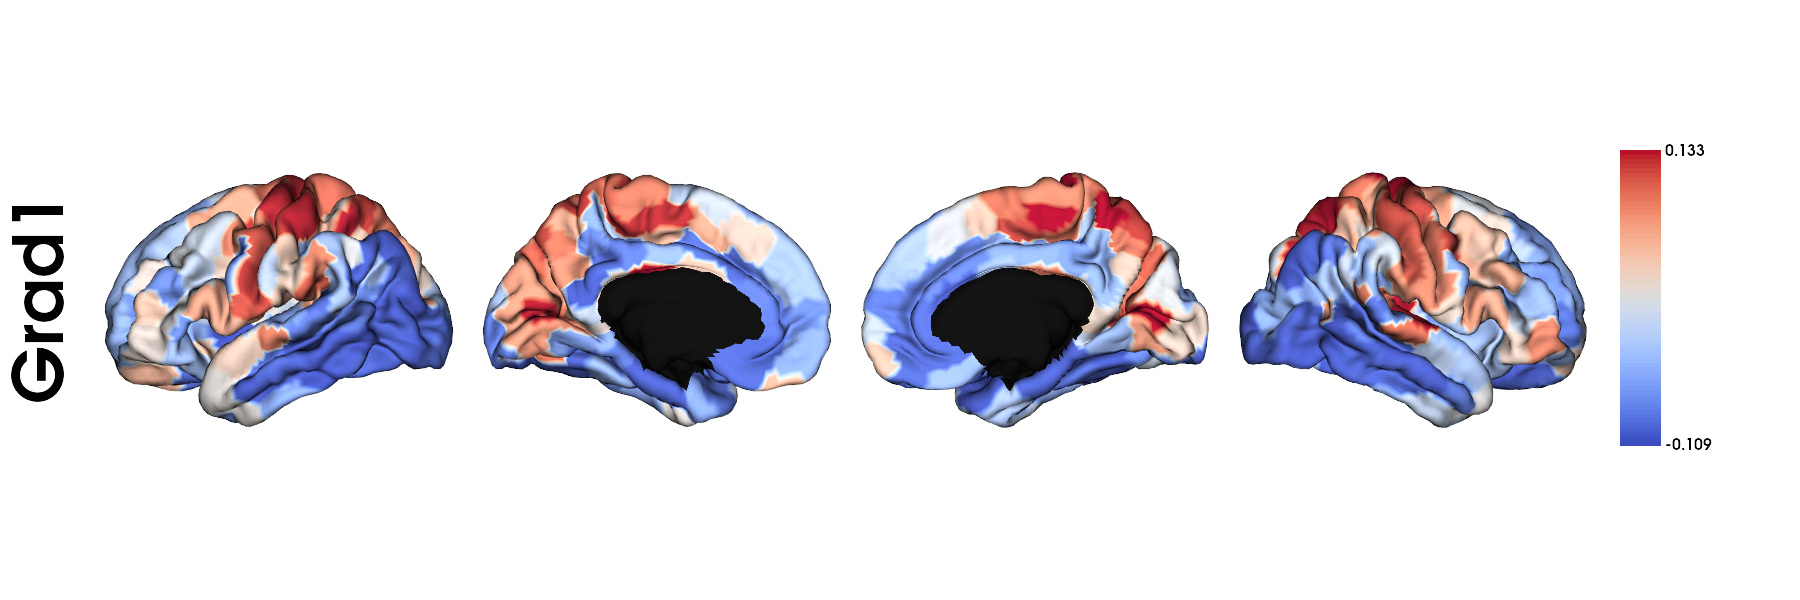
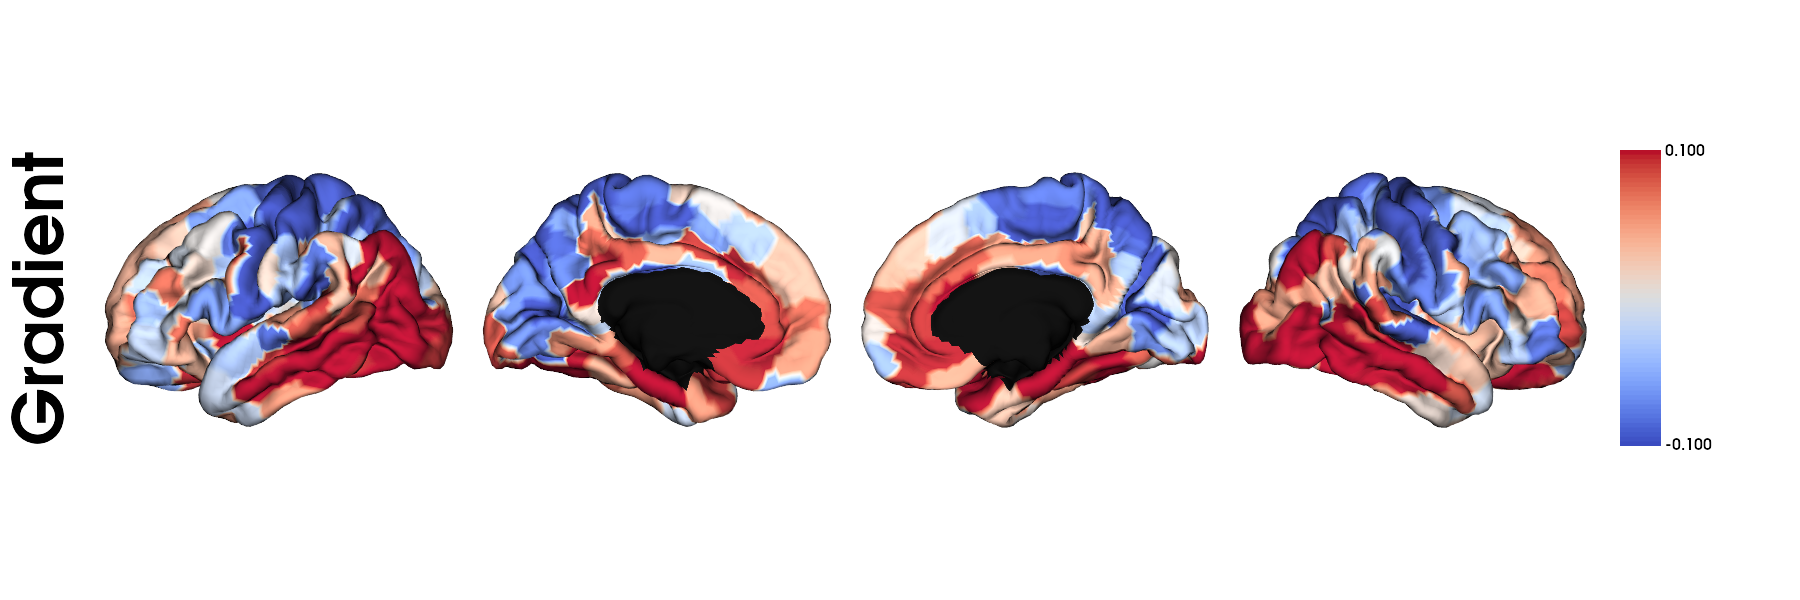
docs update

Changed region(s): [[0.0, 0.24, 0.9022, 0.75], [0.9333, 0.24, 0.9644, 0.27]]

diff --git a/docs/build/html/searchindex.js b/docs/build/html/searchindex.js
@@ -1,1 +1,1 @@
-Search.setIndex({"docnames": ["Table/INSTALLATION", "Table/MAIN OUTPUTS", "Table/REFERENCES & ACKNOWLEDGMENTS", "Table/USAGE NOTES", "index"], "filenames": ["Table/INSTALLATION.rst", "Table/MAIN OUTPUTS.rst", "Table/REFERENCES & ACKNOWLEDGMENTS.rst", "Table/USAGE NOTES.rst", "index.rst"], "titles": ["INSTALLATION", "MAIN OUTPUTS", "REFERENCES &amp; ACKNOWLEDGMENTS", "USAGE NOTES", "Welcome to GAN-MAT"], "terms": {"hi": [], "index": [], "modul": [], "search": [], "page": 0, "instal": 4, "i": [1, 3, 4], "usag": 4, "result": [], "asd": [], "bo": 4, "yong": 4, "park": 4, "camin": [0, 4], "lab": 4, "inha": 4, "univers": 4, "yeong": 4, "jun": [2, 4], "you": [2, 3], "can": [], "program": [], "from": [0, 1, 2, 3, 4], "github": 0, "follow": [2, 3], "code": 0, "block": [], "caption": [], "test1": [], "test2": [], "test3": [], "git": 0, "clone": 0, "site": [], "our": 0, "out": [], "need": 3, "other": [], "two": [], "progam": [], "fsl": [0, 2], "workbench": [0, 2], "numpi": [0, 1, 2], "ad": [], "freesurf": [0, 1, 2, 3], "gnu": [0, 2], "parallel": [0, 2], "scipi": [0, 2], "nibabel": [0, 1, 2], "brainspac": [0, 1, 2], "torch": [0, 2], "torchvis": [0, 2], "scikit": [0, 2], "imag": [0, 2], "tqdm": [0, 2], "see": [], "paper": 2, "www": 0, "naver": [], "com": 0, "more": [1, 3], "detail": 1, "gan": [0, 1], "mat": [0, 1], "data": [2, 3], "function": [0, 1, 3], "parcel": [1, 3], "templat": 3, "sh": 0, "folder_set": 3, "ipynb": 3, "model": [0, 3], "inform": 2, "folder": [0, 3], "file": 3, "contain": 3, "input": 3, "specif": 3, "us": [1, 2, 3, 4], "format": 3, "process": 2, "especi": [], "floder": [], "relat": [], "synthes": [3, 4], "t2": [3, 4], "weight": [3, 4], "mri": [3, 4], "annot": 1, "each": [], "atla": 1, "registr": 3, "all": 3, "output": [3, 4], "main": [3, 4], "run": [], "convert": 3, "move": 0, "2": [0, 1, 2, 3, 4], "cd": [], "pipelin": [3, 4], "your": [0, 2], "path": [0, 3], "option": 3, "descript": 3, "aaa": [], "aaaa": [], "bbb": [], "batch_siz": 3, "num": 3, "number": 3, "batch": 3, "size": [1, 3], "default": 3, "1": [0, 1, 2, 3, 4], "thread": 3, "6": [0, 3], "make": [], "termin": 3, "myelin": [1, 3, 4], "t1": [3, 4], "ratio": [3, 4], "matrix": [3, 4], "mpc": [3, 4], "gradient": [2, 3, 4], "when": [], "experi": [], "requir": 3, "approxim": [], "much": [], "gpu": 3, "memori": 3, "10gb": 3, "so": 3, "have": [], "capac": 3, "enough": [], "devic": 3, "variabl": 3, "py": [1, 3], "chang": [0, 3], "cpu": [], "The": [2, 4], "ar": [3, 4], "store": 3, "subject": [1, 3], "105923": [1, 3], "t2w": [1, 3, 4], "nii": [1, 3], "gz": [1, 3], "schaefer": [1, 3], "100_mpc_matrix": 1, "txt": 1, "200_mpc_matrix": 1, "300_mpc_matrix": 1, "400_mpc_matrix": 1, "500_mpc_matrix": 1, "600_mpc_matrix": 1, "700_mpc_matrix": 1, "800_mpc_matrix": 1, "900_mpc_matrix": 1, "1000_mpc_matrix": 1, "vosdewael": [1, 3], "aparc_mpc_matrix": 1, "economo_mpc_matrix": 1, "glasser": [1, 2, 3], "360_mpc_matrix": 1, "100_mpc_gradient": 1, "200_mpc_gradient": 1, "300_mpc_gradient": 1, "400_mpc_gradient": 1, "500_mpc_gradient": 1, "600_mpc_gradient": 1, "700_mpc_gradient": 1, "800_mpc_gradient": 1, "900_mpc_gradient": 1, "1000_mpc_gradient": 1, "aparc_mpc_gradi": 1, "economo_mpc_gradi": 1, "360_mpc_gradient": 1, "seulki": 4, "yoo": 4, "chae": 4, "yeon": 4, "kim": 4, "ong": [], "young": 4, "namgung": 4, "yunseo": 4, "eunjung": 4, "lee": 4, "poderosa": 4, "yeodong": 4, "yun": 4, "casei": 4, "paquola": [2, 4], "mica": 4, "institut": [2, 4], "neurosci": [], "medicin": [], "bori": 4, "bernhardt": [2, 4], "montreal": 4, "neurolog": 4, "set": [0, 3], "up": [0, 3], "environ": 0, "desktop": [], "export": 0, "ganmat": 0, "diractori": [], "four": [], "shell": [], "script": 3, "transform": [], "input_dir": 3, "output_dir": [1, 3], "analysi": [2, 4], "microstructur": [3, 4], "profil": [3, 4], "covari": [3, 4], "without": [], "thi": 2, "gener": [3, 4], "adversari": [2, 4], "network": [2, 4], "provid": 3, "hyunjin": 4, "mipl": 4, "sungkyunkwan": 4, "deu": [], "we": [1, 3], "separ": [], "upload": [], "link": 0, "http": [0, 2], "dropbox": 0, "nnzayieuizd012i": 0, "aaclswuy9bbtcdf66_nwqk02a": 0, "dl": 0, "0": [0, 1, 2, 3], "_": [], "pth": 0, "jong": 4, "neuro": 0, "base": 4, "toolbox": [2, 4], "comprehens": 4, "analyz": 4, "brain": 4, "onli": 4, "three": 4, "featur": [3, 4], "t1w": [3, 4], "synthesi": 4, "3d": 4, "sensit": [1, 3, 4], "proxi": [1, 3, 4], "calcul": [1, 3, 4], "between": 4, "readi": 4, "its": [3, 4], "3": [0, 2, 4], "note": 4, "refer": 4, "acknowledg": 4, "multiscal": 4, "neuroanatomi": 4, "inm": 4, "forschungzentrum": 4, "juelich": 4, "work": [0, 2], "9": [0, 1], "download": 0, "below": 0, "directori": [0, 3], "v": 0, "5": [0, 2], "4": [0, 2], "18": [0, 3], "25": 0, "12": 0, "13": [0, 2], "19": 0, "mv": 0, "A": [2, 3], "ii": 3, "necessari": 3, "iii": 3, "differ": 3, "atlas": 3, "aparc": [1, 3], "a2009": [1, 3], "economo": [1, 3], "360": [1, 3], "100": [1, 3], "1000": [1, 3], "400": [1, 3], "mni": 3, "7mm": 3, "initi": [2, 3], "an": [2, 3], "appropri": 3, "while": 3, "comput": [2, 3], "If": [2, 3], "individu": 3, "": [2, 3], "one": 3, "than": 3, "In": [2, 3], "case": 3, "low": 3, "anat": 3, "label": 3, "surf": 3, "t1w_acpc_dc": 3, "bia": 3, "field": 3, "correct": 3, "id": [1, 3], "surfac": [1, 3], "micro_profil": 3, "lh": [1, 3], "cortex": 3, "rh": [1, 3], "orig": 3, "mgz": 3, "001": 3, "area": 3, "pial": 3, "sphere": 3, "reg": 3, "thick": 3, "white": 3, "200": 1, "300": 1, "500": 1, "600": 1, "700": 1, "800": 1, "900": 1, "a2009s_mpc_matrix": 1, "a2009s_mpc_gradi": 1, "actual": 1, "fig": [], "figur": [], "png": [], "top": 1, "bottom": 1, "pred": [], "import": 1, "np": 1, "nilearn": 1, "plot": 1, "load": 1, "loadtxt": 1, "home": [], "yjpark": [], "pipeline_test": [], "print": 1, "shape": 1, "visual": 1, "plot_matrix": 1, "cmap": 1, "purpl": 1, "sub": 1, "diffus": 1, "embed": 1, "normal": 1, "angl": 1, "similar": 1, "sparsiti": 1, "preprocess": 1, "grads_400": 1, "10": [1, 2], "nib": 1, "dataset": [1, 2], "load_fsa5": 1, "plot_hemispher": 1, "util": 1, "map_to_label": 1, "fsaverage5": 1, "fs5_lh": 1, "fs5_rh": 1, "annot_lh_fs5": 1, "read_annot": 1, "micapip": [], "400_mic": 1, "annot_rh_fs5": 1, "where": 1, "labels_fs5": 1, "concaten": 1, "axi": 1, "mask": 1, "medial": 1, "wall": 1, "mask_fs5": 1, "map": 1, "origin": 1, "grad": 1, "none": 1, "rang": 1, "fill": 1, "nan": 1, "array_nam": 1, "1800": 1, "coolwarm": 1, "color_bar": 1, "true": 1, "label_text": 1, "grad1": 1, "zoom": 1, "screenshot": [], "filenam": [], "doc": [], "sourc": 2, "tabl": [], "project": 2, "pleas": 2, "Will": 2, "updat": 2, "upon": 2, "public": 2, "temp": [], "jenkinson": 2, "m": 2, "beckmann": 2, "c": 2, "f": 2, "behren": 2, "t": 2, "e": 2, "woolrich": 2, "w": 2, "smith": 2, "2012": 2, "neuroimag": 2, "62": 2, "782": 2, "790": 2, "doi": 2, "org": 2, "1016": 2, "j": 2, "2011": 2, "09": 2, "015": 2, "fischl": 2, "b": 2, "774": 2, "781": 2, "01": 2, "021": 2, "marcu": 2, "d": 2, "harwel": 2, "olsen": 2, "hodg": 2, "mf": 2, "prior": 2, "laumann": 2, "curtiss": 2, "sw": 2, "van": 2, "essen": 2, "dc": 2, "informat": 2, "mine": 2, "tool": 2, "strategi": 2, "human": 2, "connectom": 2, "frontier": 2, "neuroinformat": 2, "3389": 2, "fninf": 2, "00004": 2, "vo": 2, "de": 2, "wael": 2, "r": 2, "benkarim": 2, "o": 2, "larivier": 2, "royer": 2, "tavakol": 2, "xu": 2, "hong": 2, "lang": 2, "g": 2, "valk": 2, "misic": 2, "milham": 2, "marguli": 2, "smallwood": 2, "2020": 2, "macroscal": 2, "commun": 2, "biol": 2, "103": 2, "der": 2, "walt": 2, "colbert": 2, "varoquaux": 2, "arrai": 2, "structur": 2, "effici": 2, "numer": 2, "scienc": 2, "engin": 2, "22": 2, "30": 2, "1109": 2, "mcse": 2, "37": 2, "virtanen": 2, "p": 2, "gommer": 2, "oliph": 2, "haberland": 2, "reddi": 2, "cournapeau": 2, "mulbregt": 2, "fundament": 2, "algorithm": 2, "scientif": 2, "python": 2, "nat": 2, "method": 2, "17": 2, "261": 2, "272": 2, "1038": 2, "s41592": 2, "019": 2, "0686": 2, "matthew": 2, "brett": 2, "mb": 2, "chri": 2, "markiewicz": 2, "cm": 2, "michael": 2, "hank": 2, "mh": 2, "marc": 2, "alexandr": 2, "c\u00f4t\u00e9": 2, "mc": 2, "ben": 2, "cipollini": 2, "bc": 2, "paul": 2, "mccarthi": 2, "pm": 2, "cheng": 2, "cc": 2, "yaroslav": 2, "halchenko": 2, "yoh": 2, "satra": 2, "ghosh": 2, "sg": 2, "eric": 2, "larson": 2, "el": 2, "demian": 2, "wassermann": 2, "stephan": 2, "gerhard": 2, "ross": 2, "markello": 2, "rm": 2, "nipi": 2, "isola": 2, "phillip": 2, "et": 2, "al": 2, "translat": 2, "condit": 2, "proceed": 2, "ieee": 2, "confer": 2, "vision": 2, "pattern": 2, "recognit": 2, "2017": 2, "tang": 2, "command": 2, "line": 2, "power": 2, "login": 2, "usenix": 2, "magazin": 2, "februari": 2, "42": 2, "47": 2, "paszk": 2, "gross": 2, "massa": 2, "lerer": 2, "bradburi": 2, "chanan": 2, "chintala": 2, "2019": 2, "pytorch": 2, "imper": 2, "style": 2, "high": 2, "perform": 2, "deep": 2, "learn": 2, "librari": 2, "advanc": 2, "neural": 2, "system": 2, "32": 2, "pp": 2, "8024": 2, "8035": 2, "curran": 2, "associ": 2, "inc": 2, "retriev": 2, "neurip": 2, "9015": 2, "pdf": 2, "s\u00e9bastien": 2, "marcel": 2, "yann": 2, "rodriguez": 2, "2010": 2, "machin": 2, "packag": 2, "18th": 2, "acm": 2, "intern": 2, "multimedia": 2, "mm": 2, "machineri": 2, "new": 2, "york": 2, "ny": 2, "usa": 2, "1485": 2, "1488": 2, "1145": 2, "1873951": 2, "1874254": 2, "sch": 2, "onberg": 2, "johann": 2, "l": 2, "nunez": 2, "iglesia": 2, "boulogn": 2, "franccoi": 2, "warner": 2, "yager": 2, "n": 2, "yu": 2, "2014": 2, "peerj": 2, "e453": 2, "da": 2, "costa": 2, "lui": 2, "fast": 2, "extens": 2, "progress": 2, "meter": 2, "cli": 2, "journal": 2, "open": 2, "softwar": 2, "1277": 2, "21105": 2, "joss": 2, "01277": 2, "author": 2, "would": 2, "like": 2, "express": 2, "gratitud": 2, "made": 2, "possibl": 2, "nation": 2, "research": 2, "foundat": 2, "korea": 2, "nstitut": 2, "technologi": 2, "plan": 2, "evalu": 2, "iitp": 2, "fund": 2, "govern": 2, "msit": 2, "basic": 2}, "objects": {}, "objtypes": {}, "objnames": {}, "titleterms": {"welcom": 4, "gan": [2, 3, 4], "mat": [2, 3, 4], "": [], "document": [], "indic": [], "tabl": [], "instal": 0, "content": 4, "result": [], "usag": 3, "author": [], "licens": [], "asd": [], "download": [], "depend": 0, "program": [], "python": 0, "packag": 0, "structur": [1, 3], "our": [], "command": [], "batch_siz": [], "num": [], "synthes": 1, "t2": 1, "weight": 1, "mri": 1, "number": [], "batch": [], "size": [], "default": [], "i": [], "1": [], "batch_si": [], "output": 1, "main": 1, "refer": 2, "acknowledg": 2, "note": 3, "core": 4, "develop": 4, "team": 4, "run": 3, "file": 1, "data": 1, "mpc": 1, "matrix": 1, "microstructur": 1, "gradient": 1, "cite": 2}, "envversion": {"sphinx.domains.c": 2, "sphinx.domains.changeset": 1, "sphinx.domains.citation": 1, "sphinx.domains.cpp": 8, "sphinx.domains.index": 1, "sphinx.domains.javascript": 2, "sphinx.domains.math": 2, "sphinx.domains.python": 3, "sphinx.domains.rst": 2, "sphinx.domains.std": 2, "sphinx": 57}, "alltitles": {"Welcome to GAN-MAT": [[4, "welcome-to-gan-mat"]], "Contents": [[4, null]], "Core developers": [[4, "core-developers"]], "& the team": [[4, "the-team"]], "INSTALLATION": [[0, "installation"]], "Dependencies & Python packages": [[0, "dependencies-python-packages"]], "Installation": [[0, "id1"]], "USAGE NOTES": [[3, "usage-notes"]], "GAN-MAT structure": [[3, "gan-mat-structure"]], "Run GAN-MAT": [[3, "run-gan-mat"]], "MAIN OUTPUTS": [[1, "main-outputs"]], "Main output files": [[1, "main-output-files"]], "Output data structure": [[1, "output-data-structure"]], "Synthesized T2-weighted MRI": [[1, "synthesized-t2-weighted-mri"]], "Synthesized MPC matrix": [[1, "synthesized-mpc-matrix"]], "Synthesized microstructural gradient": [[1, "synthesized-microstructural-gradient"]], "REFERENCES & ACKNOWLEDGMENTS": [[2, "references-acknowledgments"]], "Citing GAN-MAT": [[2, "citing-gan-mat"]], "References": [[2, "references"]], "Acknowledgments": [[2, "acknowledgments"]]}, "indexentries": {}})
+Search.setIndex({"docnames": ["Table/INSTALLATION", "Table/MAIN OUTPUTS", "Table/REFERENCES & ACKNOWLEDGMENTS", "Table/USAGE NOTES", "index"], "filenames": ["Table/INSTALLATION.rst", "Table/MAIN OUTPUTS.rst", "Table/REFERENCES & ACKNOWLEDGMENTS.rst", "Table/USAGE NOTES.rst", "index.rst"], "titles": ["INSTALLATION", "MAIN OUTPUTS", "REFERENCES &amp; ACKNOWLEDGMENTS", "USAGE NOTES", "Welcome to GAN-MAT"], "terms": {"hi": [], "index": [], "modul": [], "search": [], "page": 0, "instal": 4, "i": [1, 3, 4], "usag": 4, "result": [], "asd": [], "bo": 4, "yong": 4, "park": 4, "camin": [0, 4], "lab": 4, "inha": 4, "univers": 4, "yeong": 4, "jun": [2, 4], "you": 2, "can": [], "program": [], "from": [0, 1, 2, 3, 4], "github": 0, "follow": [2, 3], "code": 0, "block": [], "caption": [], "test1": [], "test2": [], "test3": [], "git": 0, "clone": 0, "site": [], "our": 0, "out": [], "need": [], "other": [], "two": [], "progam": [], "fsl": [0, 2], "workbench": [0, 2], "numpi": [0, 1, 2], "ad": [], "freesurf": [0, 1, 2, 3], "gnu": [0, 2], "parallel": [0, 2], "scipi": [0, 2], "nibabel": [0, 1, 2], "brainspac": [0, 1, 2], "torch": [0, 2], "torchvis": [0, 2], "scikit": [0, 2], "imag": [0, 2, 3], "tqdm": [0, 2], "see": [], "paper": 2, "www": [0, 2], "naver": [], "com": [0, 2], "more": [1, 3], "detail": 1, "gan": [0, 1], "mat": [0, 1], "data": [2, 3], "function": [0, 1, 3], "parcel": [1, 3], "templat": 3, "sh": 0, "folder_set": 3, "ipynb": 3, "model": [0, 3], "inform": 2, "folder": [0, 3], "file": 3, "contain": 3, "input": 3, "specif": 3, "us": [1, 2, 3, 4], "format": 3, "process": 2, "especi": [], "floder": [], "relat": [], "synthes": [3, 4], "t2": [3, 4], "weight": [3, 4], "mri": [3, 4], "annot": 1, "each": [], "atla": 1, "registr": 3, "all": 3, "output": [3, 4], "main": [3, 4], "run": [], "convert": 3, "move": 0, "2": [0, 1, 2, 3, 4], "cd": [], "pipelin": [3, 4], "your": [0, 2], "path": [0, 3], "option": 3, "descript": 3, "aaa": [], "aaaa": [], "bbb": [], "batch_siz": 3, "num": 3, "number": 3, "batch": 3, "size": [1, 3], "default": 3, "1": [0, 1, 2, 3, 4], "thread": 3, "6": [0, 3], "make": [], "termin": 3, "myelin": [1, 3, 4], "t1": [3, 4], "ratio": [3, 4], "matrix": [3, 4], "mpc": [3, 4], "gradient": [2, 3, 4], "when": [], "experi": [], "requir": 3, "approxim": [], "much": [], "gpu": 3, "memori": 3, "10gb": 3, "so": [], "have": [], "capac": 3, "enough": [], "devic": 3, "variabl": 3, "py": [1, 3], "chang": [0, 3], "cpu": [], "The": [2, 4], "ar": [3, 4], "store": 3, "subject": [1, 3], "105923": [1, 3], "t2w": [1, 3, 4], "nii": [1, 3], "gz": [1, 3], "schaefer": [1, 3], "100_mpc_matrix": 1, "txt": 1, "200_mpc_matrix": 1, "300_mpc_matrix": 1, "400_mpc_matrix": 1, "500_mpc_matrix": 1, "600_mpc_matrix": 1, "700_mpc_matrix": 1, "800_mpc_matrix": 1, "900_mpc_matrix": 1, "1000_mpc_matrix": 1, "vosdewael": [1, 3], "aparc_mpc_matrix": 1, "economo_mpc_matrix": 1, "glasser": [1, 2, 3], "360_mpc_matrix": 1, "100_mpc_gradient": 1, "200_mpc_gradient": 1, "300_mpc_gradient": 1, "400_mpc_gradient": 1, "500_mpc_gradient": 1, "600_mpc_gradient": 1, "700_mpc_gradient": 1, "800_mpc_gradient": 1, "900_mpc_gradient": 1, "1000_mpc_gradient": 1, "aparc_mpc_gradi": 1, "economo_mpc_gradi": 1, "360_mpc_gradient": 1, "seulki": 4, "yoo": 4, "chae": 4, "yeon": 4, "kim": 4, "ong": [], "young": 4, "namgung": 4, "yunseo": 4, "eunjung": 4, "lee": 4, "poderosa": 4, "yeodong": 4, "yun": 4, "casei": 4, "paquola": [2, 4], "mica": 4, "institut": [2, 4], "neurosci": [], "medicin": [], "bori": 4, "bernhardt": 4, "montreal": 4, "neurolog": 4, "set": [0, 3], "up": 3, "environ": 0, "desktop": [], "export": 0, "ganmat": 0, "diractori": [], "four": [], "shell": [], "script": 3, "transform": [], "input_dir": 3, "output_dir": [1, 3], "analysi": [2, 4], "microstructur": [3, 4], "profil": [3, 4], "covari": [3, 4], "without": [], "thi": 2, "gener": [3, 4], "adversari": [2, 4], "network": [2, 4], "provid": 3, "hyunjin": 4, "mipl": 4, "sungkyunkwan": 4, "deu": [], "we": 1, "separ": [], "upload": [], "link": 0, "http": [0, 2], "dropbox": 0, "nnzayieuizd012i": 0, "aaclswuy9bbtcdf66_nwqk02a": 0, "dl": 0, "0": [0, 1, 2, 3], "_": [], "pth": 0, "jong": 4, "neuro": 0, "base": 4, "toolbox": [2, 4], "comprehens": 4, "analyz": 4, "brain": 4, "onli": 4, "three": 4, "featur": [3, 4], "t1w": [3, 4], "synthesi": 4, "3d": 4, "sensit": [1, 3, 4], "proxi": [1, 3, 4], "calcul": [1, 3, 4], "between": 4, "readi": 4, "its": [3, 4], "3": [0, 2, 4], "note": 4, "refer": 4, "acknowledg": 4, "multiscal": 4, "neuroanatomi": 4, "inm": 4, "forschungzentrum": 4, "juelich": 4, "work": 2, "9": [0, 1], "download": 0, "below": 0, "directori": [0, 3], "v": [0, 2], "5": [0, 2], "4": [0, 2], "18": [0, 3], "25": 0, "12": 0, "13": [0, 2], "19": [0, 2], "mv": 0, "A": [2, 3], "ii": 3, "necessari": 3, "iii": 3, "differ": 3, "atlas": 3, "aparc": [1, 3], "a2009": [1, 3], "economo": [1, 3], "360": [1, 3], "100": [1, 3], "1000": [1, 3], "400": [1, 3], "mni": 3, "7mm": 3, "initi": [2, 3], "an": [2, 3], "appropri": 3, "while": 3, "comput": [2, 3], "If": [2, 3], "individu": 3, "": [2, 3], "one": 3, "than": 3, "In": [2, 3], "case": 3, "low": 3, "anat": 3, "label": 3, "surf": 3, "t1w_acpc_dc": [], "bia": 3, "field": 3, "correct": 3, "id": [1, 3], "surfac": [1, 3], "micro_profil": 3, "lh": [1, 3], "cortex": 3, "rh": [1, 3], "orig": 3, "mgz": 3, "001": 3, "area": 3, "pial": 3, "sphere": 3, "reg": 3, "thick": 3, "white": 3, "200": 1, "300": 1, "500": 1, "600": 1, "700": 1, "800": 1, "900": 1, "a2009s_mpc_matrix": 1, "a2009s_mpc_gradi": 1, "actual": 1, "fig": [], "figur": [], "png": [], "top": 1, "bottom": 1, "pred": [], "import": 1, "np": 1, "nilearn": 1, "plot": 1, "load": 1, "loadtxt": 1, "home": [], "yjpark": [], "pipeline_test": [], "print": 1, "shape": 1, "visual": 1, "plot_matrix": 1, "cmap": 1, "purpl": 1, "sub": 1, "diffus": 1, "embed": 1, "normal": 1, "angl": 1, "similar": [], "sparsiti": 1, "preprocess": 1, "grads_400": 1, "10": [1, 2], "nib": 1, "dataset": [1, 2], "load_fsa5": 1, "plot_hemispher": 1, "util": 1, "map_to_label": 1, "fsaverage5": 1, "fs5_lh": 1, "fs5_rh": 1, "annot_lh_fs5": 1, "read_annot": 1, "micapip": [], "400_mic": 1, "annot_rh_fs5": 1, "where": 1, "labels_fs5": 1, "concaten": 1, "axi": 1, "mask": 1, "medial": 1, "wall": 1, "mask_fs5": 1, "map": 1, "origin": 1, "grad": 1, "none": 1, "rang": 1, "fill": 1, "nan": 1, "array_nam": 1, "1800": 1, "coolwarm": 1, "color_bar": 1, "true": 1, "label_text": 1, "grad1": [], "zoom": 1, "screenshot": [], "filenam": [], "doc": [], "sourc": 2, "tabl": [], "project": 2, "pleas": 2, "Will": 2, "updat": 2, "upon": 2, "public": 2, "temp": [], "jenkinson": 2, "m": 2, "beckmann": 2, "c": 2, "f": 2, "behren": 2, "t": 2, "e": 2, "woolrich": 2, "w": 2, "smith": 2, "2012": 2, "neuroimag": 2, "62": 2, "782": 2, "790": 2, "doi": 2, "org": 2, "1016": [], "j": 2, "2011": 2, "09": [], "015": [], "fischl": 2, "b": 2, "774": 2, "781": [], "01": [], "021": [], "marcu": 2, "d": 2, "harwel": 2, "olsen": 2, "hodg": 2, "mf": 2, "prior": 2, "laumann": 2, "curtiss": 2, "sw": 2, "van": 2, "essen": 2, "dc": 2, "informat": 2, "mine": 2, "tool": 2, "strategi": 2, "human": 2, "connectom": 2, "frontier": 2, "neuroinformat": 2, "3389": 2, "fninf": 2, "00004": 2, "vo": 2, "de": 2, "wael": 2, "r": 2, "benkarim": 2, "o": 2, "larivier": [], "royer": [], "tavakol": [], "xu": [], "hong": [], "lang": [], "g": 2, "valk": [], "misic": [], "milham": [], "marguli": [], "smallwood": [], "2020": 2, "macroscal": 2, "commun": 2, "biol": 2, "103": 2, "der": 2, "walt": 2, "colbert": 2, "varoquaux": 2, "arrai": 2, "structur": 2, "effici": 2, "numer": 2, "scienc": 2, "engin": 2, "22": 2, "30": 2, "1109": [], "mcse": [], "37": 2, "virtanen": 2, "p": 2, "gommer": 2, "oliph": 2, "haberland": 2, "reddi": 2, "cournapeau": 2, "mulbregt": 2, "fundament": 2, "algorithm": 2, "scientif": 2, "python": 2, "nat": 2, "method": 2, "17": 2, "261": 2, "272": 2, "1038": 2, "s41592": 2, "019": 2, "0686": 2, "matthew": 2, "brett": 2, "mb": 2, "chri": 2, "markiewicz": 2, "cm": 2, "michael": 2, "hank": 2, "mh": 2, "marc": 2, "alexandr": 2, "c\u00f4t\u00e9": 2, "mc": 2, "ben": 2, "cipollini": 2, "bc": 2, "paul": 2, "mccarthi": 2, "pm": 2, "cheng": 2, "cc": 2, "yaroslav": 2, "halchenko": 2, "yoh": 2, "satra": 2, "ghosh": 2, "sg": 2, "eric": 2, "larson": 2, "el": 2, "demian": 2, "wassermann": 2, "stephan": 2, "gerhard": 2, "ross": 2, "markello": 2, "rm": 2, "nipi": 2, "isola": 2, "phillip": 2, "et": 2, "al": 2, "translat": 2, "condit": 2, "proceed": 2, "ieee": 2, "confer": 2, "vision": 2, "pattern": 2, "recognit": 2, "2017": 2, "tang": 2, "command": [], "line": [], "power": [], "login": [], "usenix": [], "magazin": [], "februari": [], "42": [], "47": [], "paszk": 2, "gross": 2, "massa": 2, "lerer": 2, "bradburi": 2, "chanan": 2, "chintala": 2, "2019": 2, "pytorch": 2, "imper": 2, "style": 2, "high": 2, "perform": 2, "deep": 2, "learn": 2, "librari": 2, "advanc": 2, "neural": 2, "system": 2, "32": 2, "pp": 2, "8024": 2, "8035": 2, "curran": 2, "associ": 2, "inc": 2, "retriev": 2, "neurip": 2, "9015": 2, "pdf": 2, "s\u00e9bastien": 2, "marcel": 2, "yann": 2, "rodriguez": 2, "2010": 2, "machin": 2, "packag": 2, "18th": 2, "acm": 2, "intern": 2, "multimedia": 2, "mm": 2, "machineri": 2, "new": 2, "york": 2, "ny": 2, "usa": 2, "1485": 2, "1488": 2, "1145": 2, "1873951": 2, "1874254": 2, "sch": [], "onberg": [], "johann": [], "l": [], "nunez": 2, "iglesia": 2, "boulogn": 2, "franccoi": [], "warner": 2, "yager": 2, "n": 2, "yu": 2, "2014": 2, "peerj": 2, "e453": 2, "da": 2, "costa": 2, "lui": 2, "fast": 2, "extens": 2, "progress": 2, "meter": 2, "cli": 2, "journal": 2, "open": 2, "softwar": 2, "1277": 2, "21105": 2, "joss": 2, "01277": 2, "author": 2, "would": 2, "like": 2, "express": 2, "gratitud": 2, "made": 2, "possibl": 2, "nation": 2, "research": 2, "foundat": 2, "korea": 2, "nstitut": 2, "technologi": 2, "plan": 2, "evalu": 2, "iitp": 2, "fund": 2, "govern": 2, "msit": 2, "basic": 2, "wa": 0, "develop": 0, "kernel": 1, "48550": 2, "arxiv": 2, "1611": 2, "07004": 2, "cf": [], "te": [], "mw": [], "sm": [], "aug": 2, "15": 2, "90": [], "epub": 2, "sep": [], "16": [], "pmid": 2, "21979382": [], "81": 2, "jan": 2, "22248573": 2, "pmcid": 2, "pmc3685476": 2, "ol": 2, "2018": 2, "112": 2, "5281": 2, "zenodo": 2, "1146014": 2, "s42003": 2, "020": 2, "0794": 2, "7": 2, "1102": 2, "1523": 2, "sch\u00f6nberger": 2, "jl": 2, "jd": 2, "gouillart": 2, "contributor": 2, "7717": 2, "453": 2, "25024921": 2, "pmc4081273": 2, "sciencedirect": 2, "articl": 2, "pii": 2, "s1053811911010603": 2, "pubm": 2, "ncbi": 2, "nlm": 2, "nih": 2, "gov": 2}, "objects": {}, "objtypes": {}, "objnames": {}, "titleterms": {"welcom": 4, "gan": [2, 3, 4], "mat": [2, 3, 4], "": [], "document": [], "indic": [], "tabl": [], "instal": 0, "content": 4, "result": [], "usag": 3, "author": [], "licens": [], "asd": [], "download": [], "depend": 0, "program": [], "python": 0, "packag": 0, "structur": [1, 3], "our": [], "command": [], "batch_siz": [], "num": [], "synthes": 1, "t2": 1, "weight": 1, "mri": 1, "number": [], "batch": [], "size": [], "default": [], "i": [], "1": [], "batch_si": [], "output": 1, "main": 1, "refer": 2, "acknowledg": 2, "note": 3, "core": 4, "develop": 4, "team": 4, "run": 3, "file": 1, "data": 1, "mpc": 1, "matrix": 1, "microstructur": 1, "gradient": 1, "cite": 2}, "envversion": {"sphinx.domains.c": 2, "sphinx.domains.changeset": 1, "sphinx.domains.citation": 1, "sphinx.domains.cpp": 8, "sphinx.domains.index": 1, "sphinx.domains.javascript": 2, "sphinx.domains.math": 2, "sphinx.domains.python": 3, "sphinx.domains.rst": 2, "sphinx.domains.std": 2, "sphinx": 57}, "alltitles": {"Welcome to GAN-MAT": [[4, "welcome-to-gan-mat"]], "Contents": [[4, null]], "Core developers": [[4, "core-developers"]], "& the team": [[4, "the-team"]], "INSTALLATION": [[0, "installation"]], "Dependencies & Python packages": [[0, "dependencies-python-packages"]], "Installation": [[0, "id1"]], "USAGE NOTES": [[3, "usage-notes"]], "GAN-MAT structure": [[3, "gan-mat-structure"]], "Run GAN-MAT": [[3, "run-gan-mat"]], "MAIN OUTPUTS": [[1, "main-outputs"]], "Main output files": [[1, "main-output-files"]], "Output data structure": [[1, "output-data-structure"]], "Synthesized T2-weighted MRI": [[1, "synthesized-t2-weighted-mri"]], "Synthesized MPC matrix": [[1, "synthesized-mpc-matrix"]], "Synthesized microstructural gradient": [[1, "synthesized-microstructural-gradient"]], "REFERENCES & ACKNOWLEDGMENTS": [[2, "references-acknowledgments"]], "Citing GAN-MAT": [[2, "citing-gan-mat"]], "References": [[2, "references"]], "Acknowledgments": [[2, "acknowledgments"]]}, "indexentries": {}})

diff --git a/docs/build/html/Table/REFERENCES & ACKNOWLEDGMENTS.html b/docs/build/html/Table/REFERENCES & ACKNOWLEDGMENTS.html
@@ -79,24 +79,24 @@
 <h1>REFERENCES &amp; ACKNOWLEDGMENTS<a class="headerlink" href="#references-acknowledgments" title="Permalink to this heading"></a></h1>
 <section id="citing-gan-mat">
 <h2>Citing GAN-MAT<a class="headerlink" href="#citing-gan-mat" title="Permalink to this heading"></a></h2>
-<p>If you used GAN-MAT for your project, please cite the following:</p>
+<p>If you use GAN-MAT for your project, please cite the following:</p>
 <p><a class="reference external" href="https://temp">Will be updated upon publication.</a></p>
 </section>
 <section id="references">
 <h2>References<a class="headerlink" href="#references" title="Permalink to this heading"></a></h2>
 <ul class="simple">
 <li><dl class="simple">
-<dt>GAN</dt><dd><p>Isola, Phillip, et al. “Image-to-image translation with conditional adversarial networks.” Proceedings of the IEEE conference on computer vision and pattern recognition. 2017.</p>
+<dt>GAN</dt><dd><p>Isola, Phillip, et al. “Image-to-image translation with conditional adversarial networks.” Proceedings of the IEEE conference on computer vision and pattern recognition. 2017. <a class="reference external" href="https://doi.org/10.48550/arXiv.1611.07004">https://doi.org/10.48550/arXiv.1611.07004</a></p>
 </dd>
 </dl>
 </li>
 <li><dl class="simple">
-<dt>FSL</dt><dd><p>Jenkinson, M., Beckmann, C. F., Behrens, T. E., Woolrich, M. W., &amp; Smith, S. M. (2012). Fsl. Neuroimage, 62(2), 782-790. <a class="reference external" href="https://doi.org/10.1016/j.neuroimage.2011.09.015">https://doi.org/10.1016/j.neuroimage.2011.09.015</a></p>
+<dt>FSL</dt><dd><p>Jenkinson, M., Beckmann, C. F., Behrens, T. E., Woolrich, M. W., &amp; Smith, S. M. (2012). FSL. NeuroImage, 62(2), 782–790. <a class="reference external" href="https://www.sciencedirect.com/science/article/pii/S1053811911010603">https://www.sciencedirect.com/science/article/pii/S1053811911010603</a></p>
 </dd>
 </dl>
 </li>
 <li><dl class="simple">
-<dt>FreeSurfer</dt><dd><p>Fischl, B. (2012). FreeSurfer. Neuroimage, 62(2), 774-781. <a class="reference external" href="https://doi.org/10.1016/j.neuroimage.2012.01.021">https://doi.org/10.1016/j.neuroimage.2012.01.021</a></p>
+<dt>FreeSurfer</dt><dd><p>Fischl B. FreeSurfer. Neuroimage. 2012 Aug 15;62(2):774-81. Epub 2012 Jan 10. PMID: 22248573; PMCID: PMC3685476. <a class="reference external" href="https://pubmed.ncbi.nlm.nih.gov/22248573/">https://pubmed.ncbi.nlm.nih.gov/22248573/</a></p>
 </dd>
 </dl>
 </li>
@@ -106,19 +106,17 @@
 </dl>
 </li>
 <li><dl class="simple">
-<dt>GNU Parallel</dt><dd><ol class="upperalpha simple" start="15">
-<li><p>Tange (2011): GNU Parallel - The Command-Line Power Tool; login: The USENIX Magazine, February 2011:42-47.</p></li>
-</ol>
+<dt>GNU Parallel</dt><dd><p>Tange, Ole. (2018). GNU Parallel 2018. In GNU Parallel 2018 (p. 112). Ole Tange. <a class="reference external" href="https://doi.org/10.5281/zenodo.1146014">https://doi.org/10.5281/zenodo.1146014</a></p>
 </dd>
 </dl>
 </li>
 <li><dl class="simple">
-<dt>brainspace</dt><dd><p>Vos de Wael R, Benkarim O, Paquola C, Lariviere S, Royer J, Tavakol S, Xu T, Hong S, Langs G, Valk S, Misic B, Milham M, Margulies D, Smallwood J, Bernhardt B. (2020). BrainSpace: a toolbox for the analysis of macroscale gradients in neuroimaging and connectomics datasets. Commun Biol 3, 103.</p>
+<dt>brainspace</dt><dd><p>Vos de Wael, R., Benkarim, O., Paquola, C. et al. BrainSpace: a toolbox for the analysis of macroscale gradients in neuroimaging and connectomics datasets. Commun Biol 3, 103 (2020). <a class="reference external" href="https://doi.org/10.1038/s42003-020-0794-7">https://doi.org/10.1038/s42003-020-0794-7</a></p>
 </dd>
 </dl>
 </li>
 <li><dl class="simple">
-<dt>numpy</dt><dd><p>Van Der Walt, S., Colbert, S. C., &amp; Varoquaux, G. (2011). The NumPy array: a structure for efficient numerical computation. Computing in science &amp; engineering, 13(2), 22-30. 10.1109/MCSE.2011.37</p>
+<dt>numpy</dt><dd><p>Walt, S.V., Colbert, S.C., &amp; Varoquaux, G. (2011). The NumPy Array: A Structure for Efficient Numerical Computation. Computing in Science &amp; Engineering, 13, 22-30. <a class="reference external" href="https://doi.org/10.48550/arXiv.1102.1523">https://doi.org/10.48550/arXiv.1102.1523</a></p>
 </dd>
 </dl>
 </li>
@@ -143,7 +141,7 @@
 </dl>
 </li>
 <li><dl class="simple">
-<dt>scikit-image</dt><dd><p>Van der Walt, S., Sch”onberger, Johannes L, Nunez-Iglesias, J., Boulogne, Franccois, Warner, J. D., Yager, N., … Yu, T. (2014). scikit-image: image processing in Python. PeerJ, 2, e453.</p>
+<dt>scikit-image</dt><dd><p>van der Walt S, Schönberger JL, Nunez-Iglesias J, Boulogne F, Warner JD, Yager N, Gouillart E, Yu T; scikit-image contributors. scikit-image: image processing in Python. PeerJ. 2014 Jun 19;2:e453. doi: 10.7717/peerj.453. PMID: 25024921; PMCID: PMC4081273. <a class="reference external" href="https://doi.org/10.7717/peerj.453">https://doi.org/10.7717/peerj.453</a></p>
 </dd>
 </dl>
 </li>

diff --git a/docs/build/html/Table/MAIN OUTPUTS.html b/docs/build/html/Table/MAIN OUTPUTS.html
@@ -164,7 +164,7 @@
 </section>
 <section id="synthesized-microstructural-gradient">
 <h3>Synthesized microstructural gradient<a class="headerlink" href="#synthesized-microstructural-gradient" title="Permalink to this heading"></a></h3>
-<p>We calculate gradients using diffusion embeding and normalized angle similarity with 0.9 sparsity. More detail in <em>/GAN-MAT/functions/preprocessing.py</em></p>
+<p>We calculated gradients using diffusion embedding and normalized angle kernel with 0.9 sparsity. More details in <em>/GAN-MAT/functions/preprocessing.py</em></p>
 <div class="highlight-default notranslate"><div class="highlight"><pre><span></span><span class="kn">import</span> <span class="nn">numpy</span> <span class="k">as</span> <span class="nn">np</span>
 <span class="n">grads_400</span> <span class="o">=</span> <span class="n">np</span><span class="o">.</span><span class="n">loadtxt</span><span class="p">(</span><span class="s2">&quot;~/output_dir/sub/schaefer-400_MPC_gradients.txt&quot;</span><span class="p">)</span>
 <span class="nb">print</span><span class="p">(</span><span class="n">grads_400</span><span class="o">.</span><span class="n">shape</span><span class="p">)</span>
@@ -197,7 +197,7 @@
 
 <span class="c1"># Plot gradients</span>
 <span class="n">plot_hemispheres</span><span class="p">(</span><span class="n">fs5_lh</span><span class="p">,</span> <span class="n">fs5_rh</span><span class="p">,</span> <span class="n">array_name</span><span class="o">=</span><span class="n">grad</span><span class="p">,</span> <span class="n">size</span><span class="o">=</span><span class="p">(</span><span class="mi">1800</span><span class="p">,</span> <span class="mi">600</span><span class="p">),</span> <span class="n">cmap</span><span class="o">=</span><span class="s1">&#39;coolwarm&#39;</span><span class="p">,</span>
-             <span class="n">color_bar</span><span class="o">=</span><span class="kc">True</span><span class="p">,</span> <span class="n">label_text</span><span class="o">=</span><span class="p">[</span><span class="s1">&#39;Grad1&#39;</span><span class="p">],</span> <span class="n">zoom</span><span class="o">=</span><span class="mf">1.2</span><span class="p">)</span>
+             <span class="n">color_bar</span><span class="o">=</span><span class="kc">True</span><span class="p">,</span> <span class="n">label_text</span><span class="o">=</span><span class="p">[</span><span class="s1">&#39;Gradient&#39;</span><span class="p">],</span> <span class="n">zoom</span><span class="o">=</span><span class="mf">1.2</span><span class="p">)</span>
 </pre></div>
 </div>
 <a class="reference internal image-reference" href="../_images/gradient.png"><img alt="../_images/gradient.png" class="align-center" src="../_images/gradient.png" style="width: 100%;" /></a>

diff --git a/docs/build/html/Table/INSTALLATION.html b/docs/build/html/Table/INSTALLATION.html
@@ -77,7 +77,7 @@
              
   <section id="installation">
 <h1>INSTALLATION<a class="headerlink" href="#installation" title="Permalink to this heading"></a></h1>
-<p>GAN-MAT works on Python == 3.9</p>
+<p>GAN-MAT was developed on Python 3.9.</p>
 <section id="dependencies-python-packages">
 <h2>Dependencies &amp; Python packages<a class="headerlink" href="#dependencies-python-packages" title="Permalink to this heading"></a></h2>
 <div class="highlight-default notranslate"><div class="highlight"><pre><span></span><span class="n">FSL</span> <span class="n">v</span><span class="mf">.6.0</span>
@@ -104,11 +104,11 @@
 <p><strong>2. Download the model at the link below:</strong></p>
 <p><a class="reference external" href="https://www.dropbox.com/sh/nnzayieuizd012y/AACLSwUY9BBTCdf66_nWqK02a?dl=0">https://www.dropbox.com/sh/nnzayieuizd012y/AACLSwUY9BBTCdf66_nWqK02a?dl=0</a></p>
 <p><strong>3. Move the downloaded model to the GAN-MAT folder:</strong></p>
-<div class="highlight-default notranslate"><div class="highlight"><pre><span></span><span class="n">mv</span> <span class="o">~/</span><span class="n">Downloads</span><span class="o">/</span><span class="n">model</span><span class="o">.</span><span class="n">pth</span> <span class="o">~/</span><span class="n">GAN</span><span class="o">-</span><span class="n">MAT</span><span class="o">/</span><span class="n">functions</span><span class="o">/</span><span class="n">model</span><span class="o">.</span><span class="n">pth</span>
+<div class="highlight-default notranslate"><div class="highlight"><pre><span></span><span class="n">mv</span> <span class="o">/</span><span class="n">DOWNLOAD</span><span class="o">/</span><span class="n">DIRECTORY</span><span class="o">/</span><span class="n">model</span><span class="o">.</span><span class="n">pth</span> <span class="o">/</span><span class="n">GAN</span><span class="o">-</span><span class="n">MAT</span><span class="o">/</span><span class="n">DIRECTORY</span><span class="o">/</span><span class="n">GAN</span><span class="o">-</span><span class="n">MAT</span><span class="o">/</span><span class="n">functions</span><span class="o">/</span><span class="n">model</span>
+<span class="c1"># Change  the path to your directories!</span>
 </pre></div>
 </div>
-<p>Change the path to your directories!</p>
-<p><strong>4. Set up environment:</strong></p>
+<p><strong>4. Set the environment:</strong></p>
 <div class="highlight-default notranslate"><div class="highlight"><pre><span></span>export GANMAT=/Your/GAN-MAT/Directory
 PATH=${PATH}:${GANMAT}:${GANMAT}/functions
 export PATH

diff --git a/docs/build/html/index.html b/docs/build/html/index.html
@@ -77,11 +77,17 @@
 <p>GAN-MAT is a comprehensive pipeline to analyze brain microstructure using only the T1-weighted MRI.</p>
 <p>Three main features of GAN-MAT:</p>
 <p><strong>1. T1w to T2w MRI synthesis</strong></p>
-<p>GAN-MAT synthesizes 3D T2-weighted MRI from 3D T1-weighted MRI using a generative adversarial network (GAN).</p>
+<blockquote>
+<div><p>GAN-MAT synthesizes 3D T2-weighted MRI from 3D T1-weighted MRI using a generative adversarial network (GAN).</p>
+</div></blockquote>
 <p><strong>2. Myelin-sensitive proxy calculation</strong></p>
-<p>Using the synthesized T2-weighted MRI, it calculates the ratio between T1- and T2-weighted MRI.</p>
+<blockquote>
+<div><p>Using the synthesized T2-weighted MRI, it calculates the ratio between T1- and T2-weighted MRI.</p>
+</div></blockquote>
 <p><strong>3. Microstructural profile covariance and gradient generation</strong></p>
-<p>The ready-to-use microstructural profile covariance (MPC) matrix and its gradient are generated.</p>
+<blockquote>
+<div><p>The ready-to-use microstructural profile covariance (MPC) matrix and its gradient are generated.</p>
+</div></blockquote>
 <div class="toctree-wrapper compound">
 <p class="caption" role="heading"><span class="caption-text">Contents</span></p>
 <ul>

diff --git a/docs/build/html/Table/USAGE NOTES.html b/docs/build/html/Table/USAGE NOTES.html
@@ -132,9 +132,9 @@
 </div>
 <div class="admonition warning">
 <p class="admonition-title">Warning</p>
-<p>We use <strong>T1w_acpc_dc.nii.gz</strong> for <strong>T1w.nii.gz</strong>. So you need to use bias field corrected T1-weighted MRI.</p>
+<p>Use bias field corrected T1-weighted image (T1w.nii.gz).</p>
 </div>
-<p><strong>2. run</strong> <em>gan-mat</em>.</p>
+<p><strong>2. Run</strong> <em>gan-mat</em>.</p>
 <div class="highlight-default notranslate"><div class="highlight"><pre><span></span><span class="n">gan</span><span class="o">-</span><span class="n">mat</span> <span class="o">-</span><span class="n">input_dir</span> <span class="o">/</span><span class="n">INPUT</span><span class="o">/</span><span class="n">DATA</span><span class="o">/</span><span class="n">PATH</span> <span class="o">-</span><span class="n">output_dir</span> <span class="o">/</span><span class="n">OUTPUT</span><span class="o">/</span><span class="n">PATH</span> <span class="o">&lt;</span><span class="n">Options</span><span class="o">&gt;</span>
 </pre></div>
 </div>

diff --git a/docs/source/Table/REFERENCES & ACKNOWLEDGMENTS.rst b/docs/source/Table/REFERENCES & ACKNOWLEDGMENTS.rst
@@ -5,7 +5,7 @@ REFERENCES & ACKNOWLEDGMENTS
 Citing GAN-MAT
 ==============
 
-If you used GAN-MAT for your project, please cite the following:
+If you use GAN-MAT for your project, please cite the following:
 
 `Will be updated upon publication. <https://temp>`_
 
@@ -13,19 +13,19 @@ References
 ==========
 
 - GAN
-   Isola, Phillip, et al. "Image-to-image translation with conditional adversarial networks." Proceedings of the IEEE conference on computer vision and pattern recognition. 2017.
+   Isola, Phillip, et al. "Image-to-image translation with conditional adversarial networks." Proceedings of the IEEE conference on computer vision and pattern recognition. 2017. https://doi.org/10.48550/arXiv.1611.07004
 - FSL
-   Jenkinson, M., Beckmann, C. F., Behrens, T. E., Woolrich, M. W., & Smith, S. M. (2012). Fsl. Neuroimage, 62(2), 782-790. `https://doi.org/10.1016/j.neuroimage.2011.09.015 <https://doi.org/10.1016/j.neuroimage.2011.09.015>`_
+   Jenkinson, M., Beckmann, C. F., Behrens, T. E., Woolrich, M. W., & Smith, S. M. (2012). FSL. NeuroImage, 62(2), 782–790. https://www.sciencedirect.com/science/article/pii/S1053811911010603
 - FreeSurfer
-   Fischl, B. (2012). FreeSurfer. Neuroimage, 62(2), 774-781. `https://doi.org/10.1016/j.neuroimage.2012.01.021 <https://doi.org/10.1016/j.neuroimage.2012.01.021>`_
+   Fischl B. FreeSurfer. Neuroimage. 2012 Aug 15;62(2):774-81. Epub 2012 Jan 10. PMID: 22248573; PMCID: PMC3685476. https://pubmed.ncbi.nlm.nih.gov/22248573/
 - Workbench
-   Marcus DS, Harwell J, Olsen T, Hodge M, Glasser MF, Prior F, Jenkinson M, Laumann T, Curtiss SW, and Van Essen DC. (2011). Informatics and data mining: Tools and strategies for the Human Connectome Project. Frontiers in Neuroinformatics 5:4. `https://doi.org/10.3389/fninf.2011.00004 <https://doi.org/10.3389/fninf.2011.00004>`_
+   Marcus DS, Harwell J, Olsen T, Hodge M, Glasser MF, Prior F, Jenkinson M, Laumann T, Curtiss SW, and Van Essen DC. (2011). Informatics and data mining: Tools and strategies for the Human Connectome Project. Frontiers in Neuroinformatics 5:4. https://doi.org/10.3389/fninf.2011.00004 
 - GNU Parallel
-   O. Tange (2011): GNU Parallel - The Command-Line Power Tool; login: The USENIX Magazine, February 2011:42-47.
+   Tange, Ole. (2018). GNU Parallel 2018. In GNU Parallel 2018 (p. 112). Ole Tange. https://doi.org/10.5281/zenodo.1146014
 - brainspace
-   Vos de Wael R, Benkarim O, Paquola C, Lariviere S, Royer J, Tavakol S, Xu T, Hong S, Langs G, Valk S, Misic B, Milham M, Margulies D, Smallwood J, Bernhardt B. (2020). BrainSpace: a toolbox for the analysis of macroscale gradients in neuroimaging and connectomics datasets. Commun Biol 3, 103.
+   Vos de Wael, R., Benkarim, O., Paquola, C. et al. BrainSpace: a toolbox for the analysis of macroscale gradients in neuroimaging and connectomics datasets. Commun Biol 3, 103 (2020). https://doi.org/10.1038/s42003-020-0794-7 
 - numpy
-   Van Der Walt, S., Colbert, S. C., & Varoquaux, G. (2011). The NumPy array: a structure for efficient numerical computation. Computing in science & engineering, 13(2), 22-30. 10.1109/MCSE.2011.37
+   Walt, S.V., Colbert, S.C., & Varoquaux, G. (2011). The NumPy Array: A Structure for Efficient Numerical Computation. Computing in Science & Engineering, 13, 22-30. https://doi.org/10.48550/arXiv.1102.1523
 - scipy
    Virtanen, P., Gommers, R., Oliphant, T. E., Haberland, M., Reddy, T., Cournapeau, D., … & Van Mulbregt, P. (2020). SciPy 1.0: fundamental algorithms for scientific computing in Python. Nat Methods 17, 261–272. `https://doi.org/10.1038/s41592-019-0686-2 <https://doi.org/10.1038/s41592-019-0686-2>`_
 - nibabel
@@ -35,7 +35,7 @@ References
 - torchvision
    Sébastien Marcel and Yann Rodriguez. 2010. Torchvision the machine-vision package of torch. In Proceedings of the 18th ACM international conference on Multimedia (MM '10). Association for Computing Machinery, New York, NY, USA, 1485–1488. https://doi.org/10.1145/1873951.1874254
 - scikit-image
-   Van der Walt, S., Sch"onberger, Johannes L, Nunez-Iglesias, J., Boulogne, Franccois, Warner, J. D., Yager, N., … Yu, T. (2014). scikit-image: image processing in Python. PeerJ, 2, e453.
+   van der Walt S, Schönberger JL, Nunez-Iglesias J, Boulogne F, Warner JD, Yager N, Gouillart E, Yu T; scikit-image contributors. scikit-image: image processing in Python. PeerJ. 2014 Jun 19;2:e453. doi: 10.7717/peerj.453. PMID: 25024921; PMCID: PMC4081273. https://doi.org/10.7717/peerj.453
 - tqdm
    da Costa-Luis, (2019). tqdm: A Fast, Extensible Progress Meter for Python and CLI. Journal of Open Source Software, 4(37), 1277, https://doi.org/10.21105/joss.01277
 

diff --git a/docs/source/Table/MAIN OUTPUTS.rst b/docs/source/Table/MAIN OUTPUTS.rst
@@ -92,7 +92,7 @@ MPC matrix visualization.
 Synthesized microstructural gradient
 ---------------------------------------------------
 
-We calculate gradients using diffusion embeding and normalized angle similarity with 0.9 sparsity. More detail in */GAN-MAT/functions/preprocessing.py* 
+We calculated gradients using diffusion embedding and normalized angle kernel with 0.9 sparsity. More details in */GAN-MAT/functions/preprocessing.py*
 
 .. code-block::
 
@@ -128,7 +128,7 @@ We calculate gradients using diffusion embeding and normalized angle similarity 
    
    # Plot gradients
    plot_hemispheres(fs5_lh, fs5_rh, array_name=grad, size=(1800, 600), cmap='coolwarm',
-                color_bar=True, label_text=['Grad1'], zoom=1.2)
+                color_bar=True, label_text=['Gradient'], zoom=1.2)
                 
 .. image:: fig/gradient.png
    :width: 100%

diff --git a/docs/source/index.rst b/docs/source/index.rst
@@ -16,15 +16,15 @@ Three main features of GAN-MAT:
 
 **1. T1w to T2w MRI synthesis**
 
-GAN-MAT synthesizes 3D T2-weighted MRI from 3D T1-weighted MRI using a generative adversarial network (GAN). 
+   GAN-MAT synthesizes 3D T2-weighted MRI from 3D T1-weighted MRI using a generative adversarial network (GAN). 
 
 **2. Myelin-sensitive proxy calculation**
 
-Using the synthesized T2-weighted MRI, it calculates the ratio between T1- and T2-weighted MRI.
+   Using the synthesized T2-weighted MRI, it calculates the ratio between T1- and T2-weighted MRI.
 
 **3. Microstructural profile covariance and gradient generation**
 
-The ready-to-use microstructural profile covariance (MPC) matrix and its gradient are generated. 
+   The ready-to-use microstructural profile covariance (MPC) matrix and its gradient are generated. 
 
 .. toctree::
    :maxdepth: 1

diff --git a/docs/source/Table/INSTALLATION.rst b/docs/source/Table/INSTALLATION.rst
@@ -2,7 +2,7 @@
 INSTALLATION
 ------------
 
-GAN-MAT works on Python == 3.9
+GAN-MAT was developed on Python 3.9.
   
 Dependencies & Python packages
 ==============================
@@ -39,11 +39,10 @@ Installation
    
 .. code-block::
 
-   mv ~/Downloads/model.pth ~/GAN-MAT/functions/model.pth
+   mv /DOWNLOAD/DIRECTORY/model.pth /GAN-MAT/DIRECTORY/GAN-MAT/functions/model 
+   # Change  the path to your directories!
 
-Change the path to your directories!
-
-**4. Set up environment:**
+**4. Set the environment:**
 
 .. code-block::
    

diff --git a/docs/source/Table/USAGE NOTES.rst b/docs/source/Table/USAGE NOTES.rst
@@ -59,10 +59,9 @@ Run GAN-MAT
    └── ...
 
 .. warning::
-   We use **T1w_acpc_dc.nii.gz** for **T1w.nii.gz**. So you need to use bias field corrected T1-weighted MRI.
+   Use bias field corrected T1-weighted image (T1w.nii.gz).
 
-
-**2. run** *gan-mat*.
+**2. Run** *gan-mat*.
 
 .. code-block::
 
